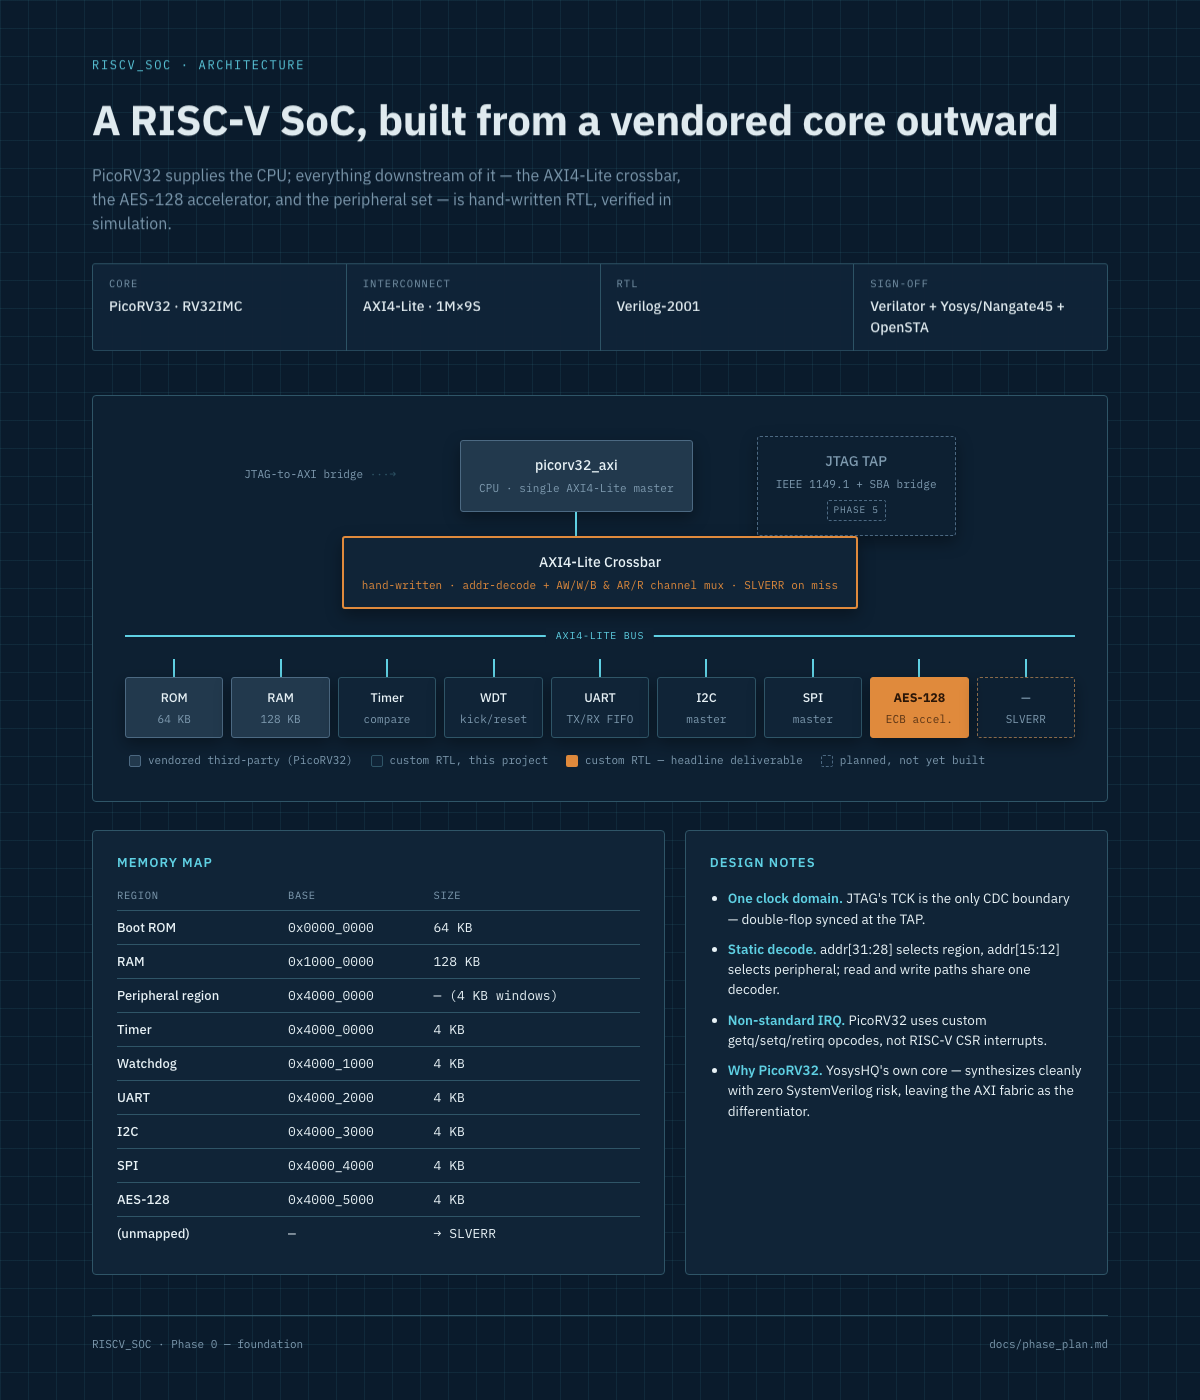
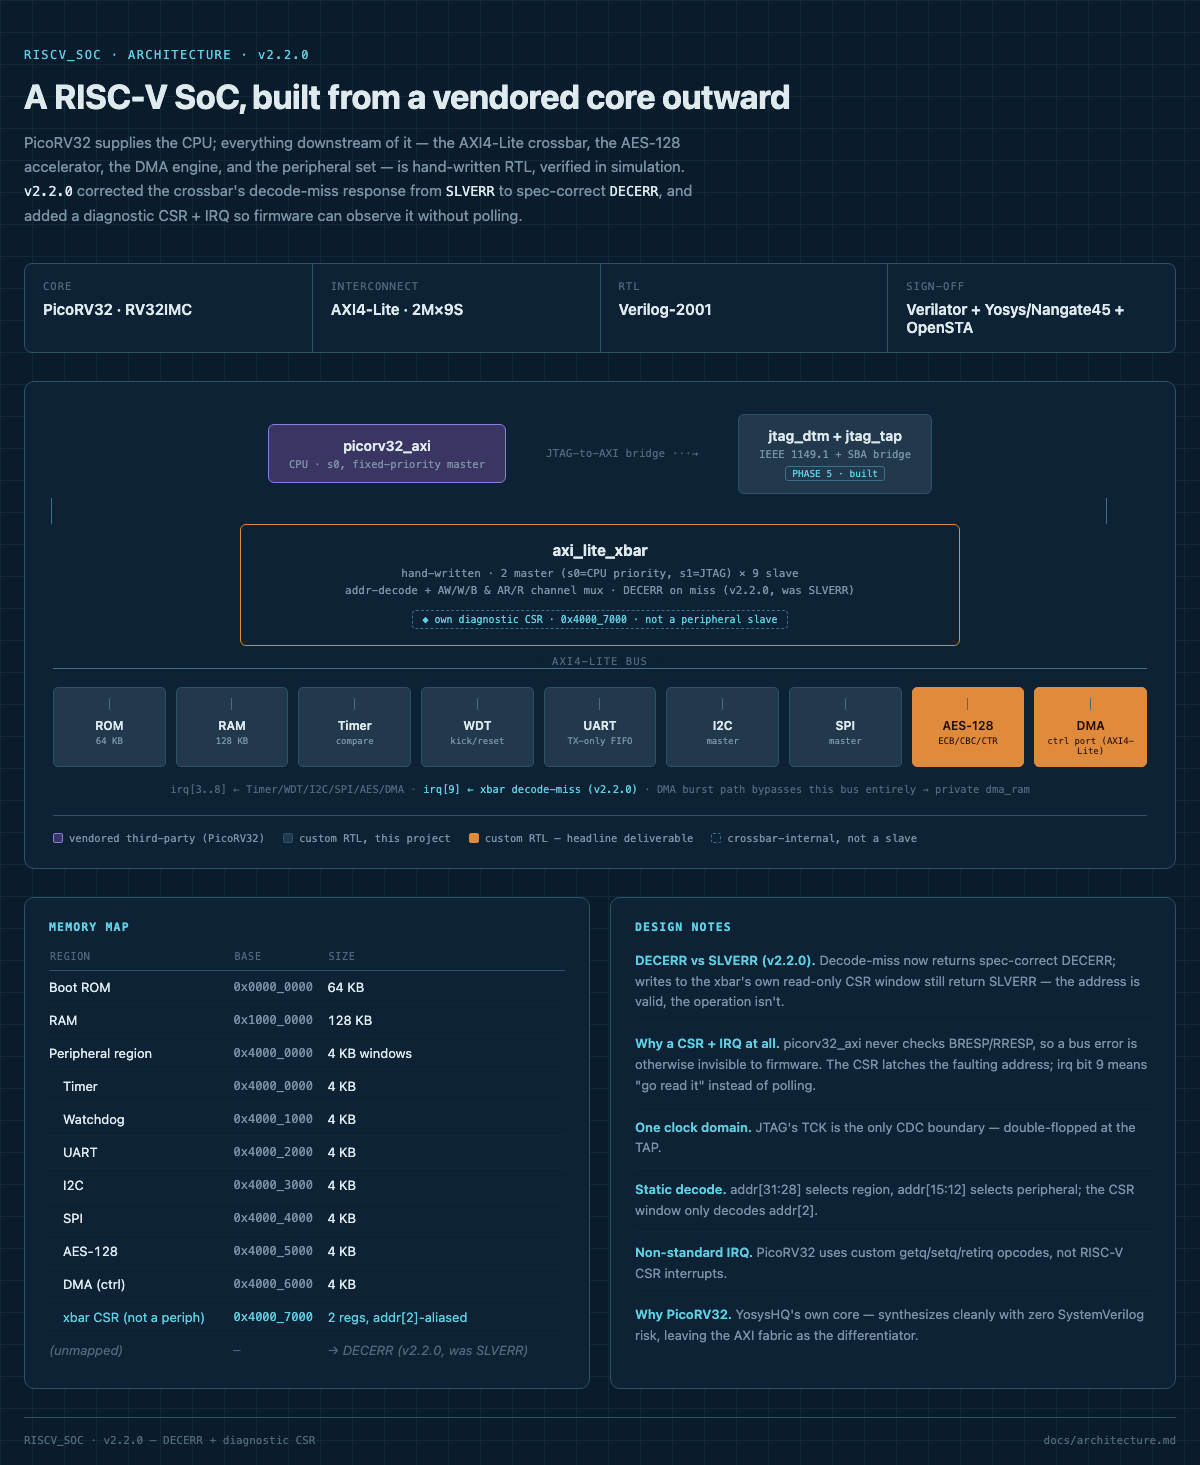
README: embed images/architecture.png instead of a mermaid block
Swaps the detailed mermaid diagram (9 peripheral boxes + irq arcs) for
the existing dashboard-style PNG -- one glance, no wiring detail. The
PNG's content was stale (Phase 1: no DMA, JTAG marked "planned",
SLVERR instead of DECERR), so it's re-rendered from the current-state
HTML mockup to match v2.2.0 reality; the full wired-up mermaid stays
in docs/architecture.md for anyone who wants the detail.

Also collapses images/architecture_versions/ (v1/v2/v3 drafts) down
to a single images/architecture.html -- going forward this directory
holds only the current architecture.png and the source that rendered
it, not a running history of edit iterations.

diff --git a/README.md b/README.md
@@ -8,67 +8,12 @@ or ASIC tape-out target.
 
 ## Architecture
 
-```mermaid
-flowchart TB
-    CPU["PicoRV32 (picorv32_axi)<br/>vendored, unmodified<br/>ENABLE_MUL/DIV/COMPRESSED/IRQ"]
-    JTAGPROBE(("外部 JTAG probe"))
-    JTAGDTM["jtag_dtm + jtag_tap<br/>(tck/tms/tdi/tdo 獨立 clock domain)"]
-    BRIDGE["jtag_axi_bridge<br/>(CDC owner)"]
-
-    XBAR["axi_lite_xbar<br/>手刻 AXI4-Lite crossbar<br/>2 master (s0=CPU 優先, s1=JTAG) x 9 slave<br/>+ 自己的診斷 CSR(0x4000_7000,非周邊,v2.2.0)"]
-
-    ROM["boot_rom<br/>64KB"]
-    RAM["sram<br/>128KB"]
-    TIMER["timer"]
-    WDT["watchdog"]
-    UART["uart (TX-only)"]
-    I2C["i2c_master"]
-    SPI["spi_master"]
-    AES["aes<br/>(AXI-Lite wrapper)"]
-    DMACTRL["dma_engine<br/>控制埠 (AXI4-Lite)"]
-
-    DMABURST["dma_engine<br/>burst master (AXI4)"]
-    DMARAM["dma_ram<br/>8KB, 私有,不接 crossbar"]
-
-    JTAGPROBE <-->|JTAG| JTAGDTM
-    JTAGDTM <--> BRIDGE
-    BRIDGE -->|s1| XBAR
-    CPU -->|s0| XBAR
-
-    XBAR --> ROM
-    XBAR --> RAM
-    XBAR --> TIMER
-    XBAR --> WDT
-    XBAR --> UART
-    XBAR --> I2C
-    XBAR --> SPI
-    XBAR --> AES
-    XBAR --> DMACTRL
-
-    DMACTRL -.同一模組內部直連,不經 crossbar.-> DMABURST
-    DMABURST <-->|AXI4 INCR burst| DMARAM
-
-    TIMER -.irq bit3.-> CPU
-    WDT -.irq bit4.-> CPU
-    I2C -.irq bit5.-> CPU
-    SPI -.irq bit6.-> CPU
-    AES -.irq bit7.-> CPU
-    DMACTRL -.irq bit8.-> CPU
-    XBAR -.irq bit9 decode miss.-> CPU
-
-    classDef vendor fill:#3a3563,stroke:#8a7ce0,stroke-width:2px,color:#e8edf2;
-    classDef headline fill:#e08a3c,stroke:#e08a3c,color:#241206;
-
-    class CPU vendor
-    class AES,DMACTRL,DMABURST,DMARAM headline
-```
+![RISCV_SOC architecture](images/architecture.png)
 
 Purple = vendored third-party IP (only `picorv32_axi` — everything else on
 this diagram is this project's own RTL). Orange = the two headline
 deliverables (AES + DMA). Full rationale for every design choice on this
-diagram: [`docs/architecture.md`](docs/architecture.md). A styled standalone
-version (matching this palette) lives in
-[`images/architecture_versions/`](images/architecture_versions/).
+diagram, plus the equivalent mermaid source: [`docs/architecture.md`](docs/architecture.md).
 
 ## Features
 

diff --git a/docs/architecture.md b/docs/architecture.md
@@ -59,7 +59,7 @@ flowchart TB
     class AES,DMACTRL,DMABURST,DMARAM headline
 ```
 
-顏色對應跟 `images/architecture_versions/architecture_v3.html` 那份保持一致：`CPU`(唯一 vendored 的節點)用紫藍色、`AES`/`DMA` 這組 Phase 6 headline deliverable 用橘色，其餘手刻周邊維持預設色。
+顏色對應跟 `images/architecture.html`(渲染成 `images/architecture.png` 的原始檔)保持一致：`CPU`(唯一 vendored 的節點)用紫藍色、`AES`/`DMA` 這組 Phase 6 headline deliverable 用橘色，其餘手刻周邊維持預設色。
 
 ## 2. 匯流排：AXI4-Lite crossbar
 
